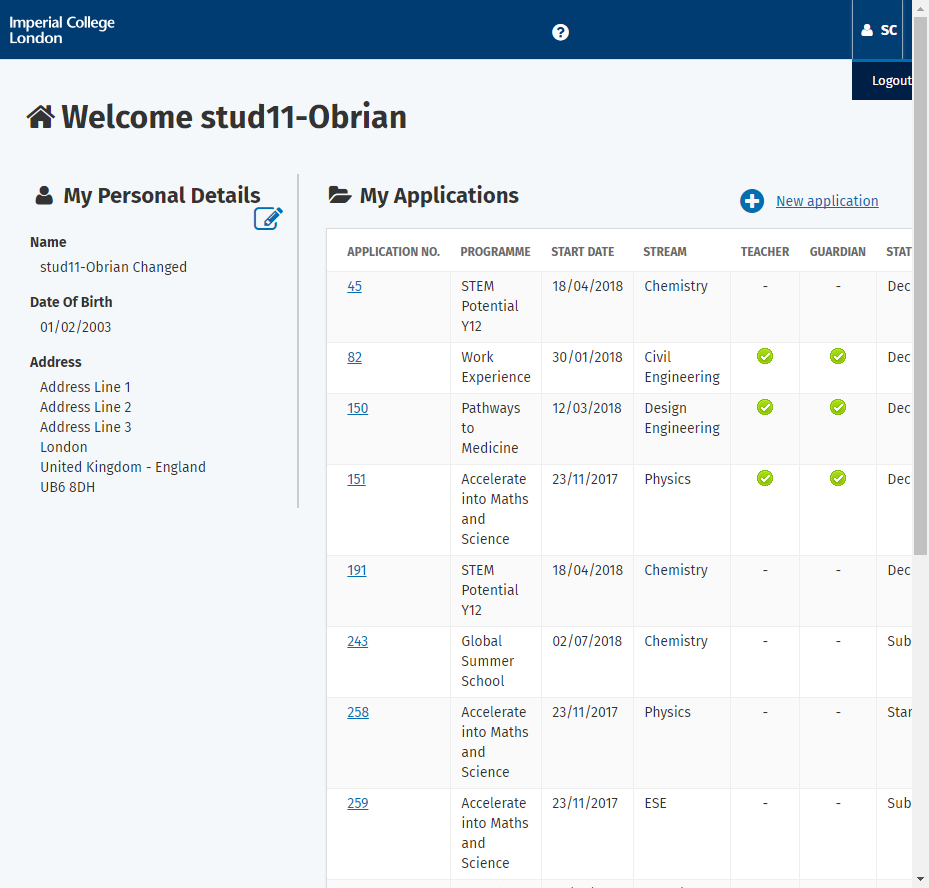
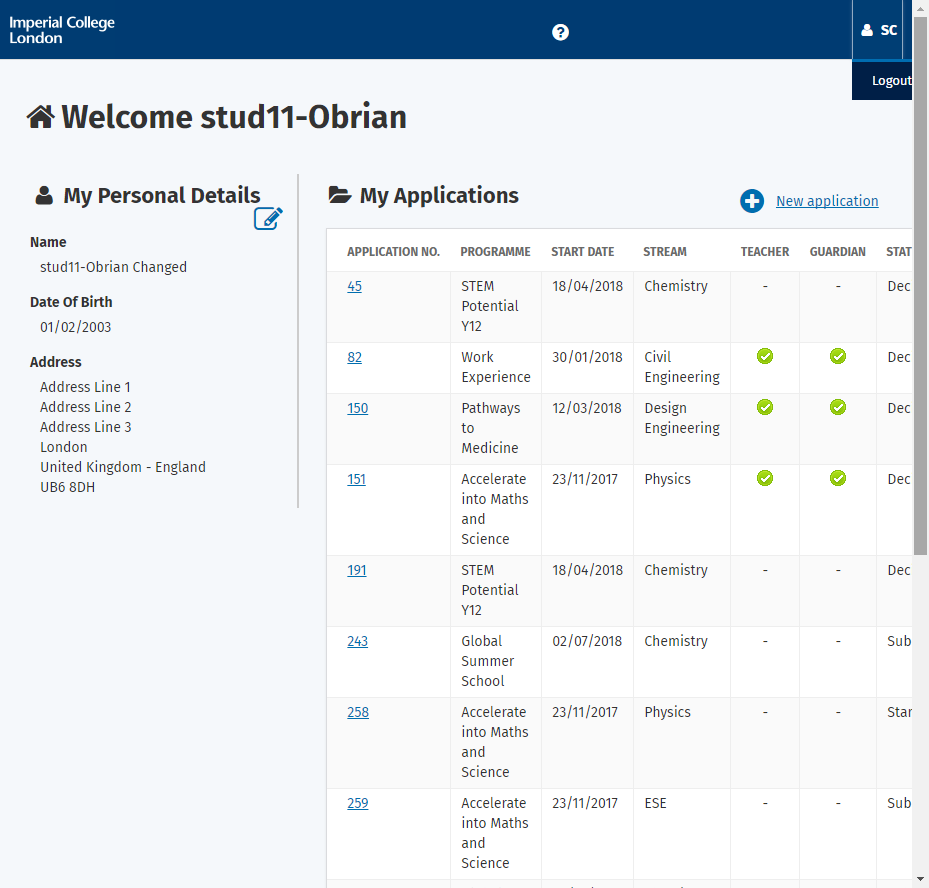
changes 2

Changed region(s): [[0.9677, 0.0, 0.9989, 0.6385]]

diff --git a/Reports/cucumber-pretty/report.js b/Reports/cucumber-pretty/report.js
@@ -7,7 +7,7 @@ formatter.feature({
   "keyword": "Feature"
 });
 formatter.before({
-  "duration": 8216676307,
+  "duration": 4745936168,
   "status": "passed"
 });
 formatter.scenario({
@@ -58,46 +58,48 @@ formatter.match({
   "location": "LoginLogout_StepDef.iGoOutreachWebsite()"
 });
 formatter.result({
-  "duration": 2257464976,
+  "duration": 1280274042,
   "status": "passed"
 });
 formatter.match({
   "location": "LoginLogout_StepDef.iEnterMyUsername()"
 });
 formatter.result({
-  "duration": 265113148,
+  "duration": 180196971,
   "status": "passed"
 });
 formatter.match({
   "location": "LoginLogout_StepDef.iEnterMyPassword()"
 });
 formatter.result({
-  "duration": 135029887,
+  "duration": 134630310,
   "status": "passed"
 });
 formatter.match({
   "location": "LoginLogout_StepDef.iClickOnSubmit()"
 });
 formatter.result({
-  "duration": 1846419588,
+  "duration": 1593767143,
   "status": "passed"
 });
 formatter.match({
   "location": "LoginLogout_StepDef.iShouldGetWelcomeMessage()"
 });
 formatter.result({
-  "duration": 75198332,
+  "duration": 54160273,
   "status": "passed"
 });
 formatter.match({
   "location": "LoginLogout_StepDef.iShouldBeAbleToLogout()"
 });
 formatter.result({
-  "duration": 2830869953,
-  "status": "passed"
+  "duration": 2734064672,
+  "error_message": "org.openqa.selenium.WebDriverException: unknown error: Element is not clickable at point (921, 81)\n  (Session info: chrome\u003d63.0.3239.132)\n  (Driver info: chromedriver\u003d2.32.498550 (9dec58e66c31bcc53a9ce3c7226f0c1c5810906a),platform\u003dWindows NT 10.0.15063 x86_64) (WARNING: The server did not provide any stacktrace information)\nCommand duration or timeout: 47 milliseconds\nBuild info: version: \u00272.44.0\u0027, revision: \u002776d78cf323ce037c5f92db6c1bba601c2ac43ad8\u0027, time: \u00272014-10-23 13:11:40\u0027\nSystem info: host: \u0027cc-syadav-lap\u0027, ip: \u0027129.31.185.223\u0027, os.name: \u0027Windows 10\u0027, os.arch: \u0027amd64\u0027, os.version: \u002710.0\u0027, java.version: \u00271.8.0_144\u0027\nDriver info: org.openqa.selenium.chrome.ChromeDriver\nCapabilities [{applicationCacheEnabled\u003dfalse, rotatable\u003dfalse, mobileEmulationEnabled\u003dfalse, networkConnectionEnabled\u003dfalse, chrome\u003d{chromedriverVersion\u003d2.32.498550 (9dec58e66c31bcc53a9ce3c7226f0c1c5810906a), userDataDir\u003dC:\\Users\\syadav12\\AppData\\Local\\Temp\\scoped_dir10476_15750}, takesHeapSnapshot\u003dtrue, pageLoadStrategy\u003dnormal, databaseEnabled\u003dfalse, handlesAlerts\u003dtrue, hasTouchScreen\u003dfalse, version\u003d63.0.3239.132, platform\u003dXP, browserConnectionEnabled\u003dfalse, nativeEvents\u003dtrue, acceptSslCerts\u003dtrue, locationContextEnabled\u003dtrue, webStorageEnabled\u003dtrue, browserName\u003dchrome, takesScreenshot\u003dtrue, javascriptEnabled\u003dtrue, cssSelectorsEnabled\u003dtrue, setWindowRect\u003dtrue, unexpectedAlertBehaviour\u003d}]\nSession ID: f10558d3ec63fc8c512b8bf5eae3a1f7\r\n\tat sun.reflect.NativeConstructorAccessorImpl.newInstance0(Native Method)\r\n\tat sun.reflect.NativeConstructorAccessorImpl.newInstance(NativeConstructorAccessorImpl.java:62)\r\n\tat sun.reflect.DelegatingConstructorAccessorImpl.newInstance(DelegatingConstructorAccessorImpl.java:45)\r\n\tat java.lang.reflect.Constructor.newInstance(Constructor.java:423)\r\n\tat org.openqa.selenium.remote.ErrorHandler.createThrowable(ErrorHandler.java:204)\r\n\tat org.openqa.selenium.remote.ErrorHandler.throwIfResponseFailed(ErrorHandler.java:156)\r\n\tat org.openqa.selenium.remote.RemoteWebDriver.execute(RemoteWebDriver.java:599)\r\n\tat org.openqa.selenium.remote.RemoteWebElement.execute(RemoteWebElement.java:268)\r\n\tat org.openqa.selenium.remote.RemoteWebElement.click(RemoteWebElement.java:79)\r\n\tat sun.reflect.NativeMethodAccessorImpl.invoke0(Native Method)\r\n\tat sun.reflect.NativeMethodAccessorImpl.invoke(NativeMethodAccessorImpl.java:62)\r\n\tat sun.reflect.DelegatingMethodAccessorImpl.invoke(DelegatingMethodAccessorImpl.java:43)\r\n\tat java.lang.reflect.Method.invoke(Method.java:498)\r\n\tat org.openqa.selenium.support.pagefactory.internal.LocatingElementHandler.invoke(LocatingElementHandler.java:50)\r\n\tat com.sun.proxy.$Proxy17.click(Unknown Source)\r\n\tat pageObjects.LandingPage.logout(LandingPage.java:63)\r\n\tat step_definitions.LoginLogout_StepDef.iShouldBeAbleToLogout(LoginLogout_StepDef.java:48)\r\n\tat ✽.And I should be able to logout(features/LoginLogout.feature:11)\r\n",
+  "status": "failed"
 });
+formatter.embedding("image/png", "embedded0.png");
 formatter.after({
-  "duration": 147640,
+  "duration": 348222425,
   "status": "passed"
 });
 });
